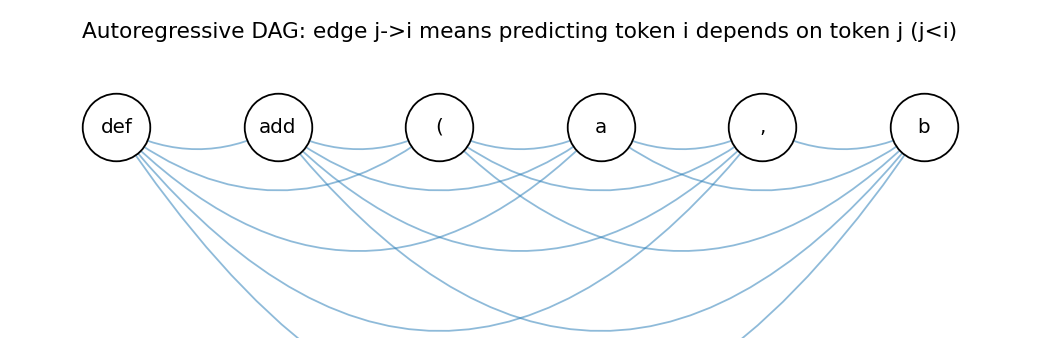
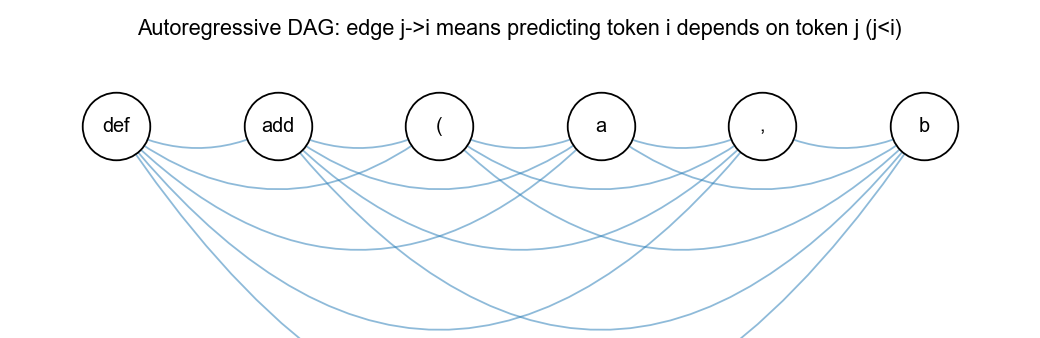
座位表：谁能看谁

diff --git a/docs/examples/causal_mask_demo.py b/docs/examples/causal_mask_demo.py
@@ -20,12 +20,53 @@ import matplotlib
 matplotlib.use("Agg")  # 无头环境
 import matplotlib.pyplot as plt
 
+# 让中文能正常显示（按可用性回退；找不到就退回 DejaVu，中文会变方框但不报错）
+matplotlib.rcParams["font.sans-serif"] = [
+    "Arial Unicode MS", "Hiragino Sans GB", "STHeiti", "Heiti TC",
+    "PingFang HK", "Songti SC", "DejaVu Sans",
+]
+matplotlib.rcParams["axes.unicode_minus"] = False
+
 HERE = os.path.dirname(os.path.abspath(__file__))
 IMG = os.path.abspath(os.path.join(HERE, "..", "images"))
 os.makedirs(IMG, exist_ok=True)
 
 TOKENS = ["def", "add", "(", "a", ",", "b"]   # 一小段"代码"当例子
 T = len(TOKENS)
+
+
+# ---------------------------------------------------------------------------
+# 0) 给小白的"座位表"：谁能看谁（配文章《写在前面·场景三》）
+#    例子就用 "我爱吃苹果"，与正文 ASCII 表一一对应。
+# ---------------------------------------------------------------------------
+def demo_seatchart():
+    words = ["我", "爱", "吃", "苹果"]
+    n = len(words)
+    visible = torch.tril(torch.ones(n, n))  # 1=能看, 0=不能看
+
+    plt.figure(figsize=(4.6, 4.2))
+    # 绿=能看(1)，灰=不能看(0)
+    plt.imshow(visible, cmap="Greens", vmin=-0.3, vmax=1)
+    plt.xticks(range(n), words, fontsize=13)
+    plt.yticks(range(n), words, fontsize=13)
+    plt.xlabel("能不能看见这个字（列）", fontsize=11)
+    plt.ylabel("正在预测这个字（行）", fontsize=11)
+    plt.title("座位表：谁能看谁  绿=能看  灰=不能看", fontsize=12)
+    for i in range(n):
+        for j in range(n):
+            can = int(visible[i, j])
+            plt.text(j, i, "能看" if can else "遮住",
+                     ha="center", va="center", fontsize=11,
+                     color="white" if can else "dimgrey")
+    plt.tight_layout()
+    p = os.path.join(IMG, "seat_chart.png")
+    plt.savefig(p, dpi=130); plt.close()
+    print("\n[0] 座位表 (行=预测的字, 列=能不能看见):")
+    print("        " + "  ".join(f"{w:>3}" for w in words))
+    for i, w in enumerate(words):
+        row = "  ".join(("能看" if v else "遮住") for v in visible[i])
+        print(f"  {w:>4} {row}")
+    print(f"    -> saved {p}")
 
 
 # ---------------------------------------------------------------------------
@@ -128,6 +169,7 @@ def demo_dag():
 
 
 if __name__ == "__main__":
+    demo_seatchart()
     demo_mask()
     demo_attention()
     demo_dag()

diff --git a/docs/mask_causal_triangular.md b/docs/mask_causal_triangular.md
@@ -75,18 +75,20 @@
 
 ### 场景三：三角矩阵 —— 一张"谁能看谁"的座位表，形状像楼梯
 
-把上面那句"我爱吃苹果"排成一行，做一张表格：**行 = 正在预测的字，列 = 它能不能看见的字**，
-能看打 `1`，不能看打 `0`：
+把上面那句"我爱吃苹果"排成一行，做一张表格：**行 = 正在预测的字，列 = 它能不能看见的字**：
+
+![座位表：谁能看谁](images/seat_chart.png)
 
 ```
-          我   爱   吃  苹果
-    我      1    0    0    0      ← 预测"我"，只能看自己
-    爱      1    1    0    0      ← 预测"爱"，能看 我、爱
-    吃      1    1    1    0      ← 能看 我、爱、吃
-   苹果     1    1    1    1      ← 能看全部
+          我    爱    吃   苹果
+    我    能看  遮住  遮住  遮住     ← 预测"我"，只能看自己
+    爱    能看  能看  遮住  遮住     ← 预测"爱"，能看 我、爱
+    吃    能看  能看  能看  遮住     ← 能看 我、爱、吃
+   苹果   能看  能看  能看  能看     ← 能看全部
 ```
 
-看见那些 `1` 组成的形状了吗？——**是一个楼梯，也就是一个三角形。** 这就是"**三角矩阵**"这个名字的来历：
+（上面这张图就是这张表——它由 `docs/examples/causal_mask_demo.py` 直接画出，深绿"能看"、浅绿"遮住"。）
+看见那些"能看"（深绿）组成的形状了吗？——**是一个楼梯，也就是一个三角形。** 这就是"**三角矩阵**"这个名字的来历：
 它不是什么高深的东西，就是"因果掩码"这张座位表**天生长成的楼梯形状**。数学家几百年前研究解方程时
 就反复见到这种"下三角"形状（比如中国《九章算术》的消元法、高斯消元法），大模型只是把这个老朋友借来用了。
 